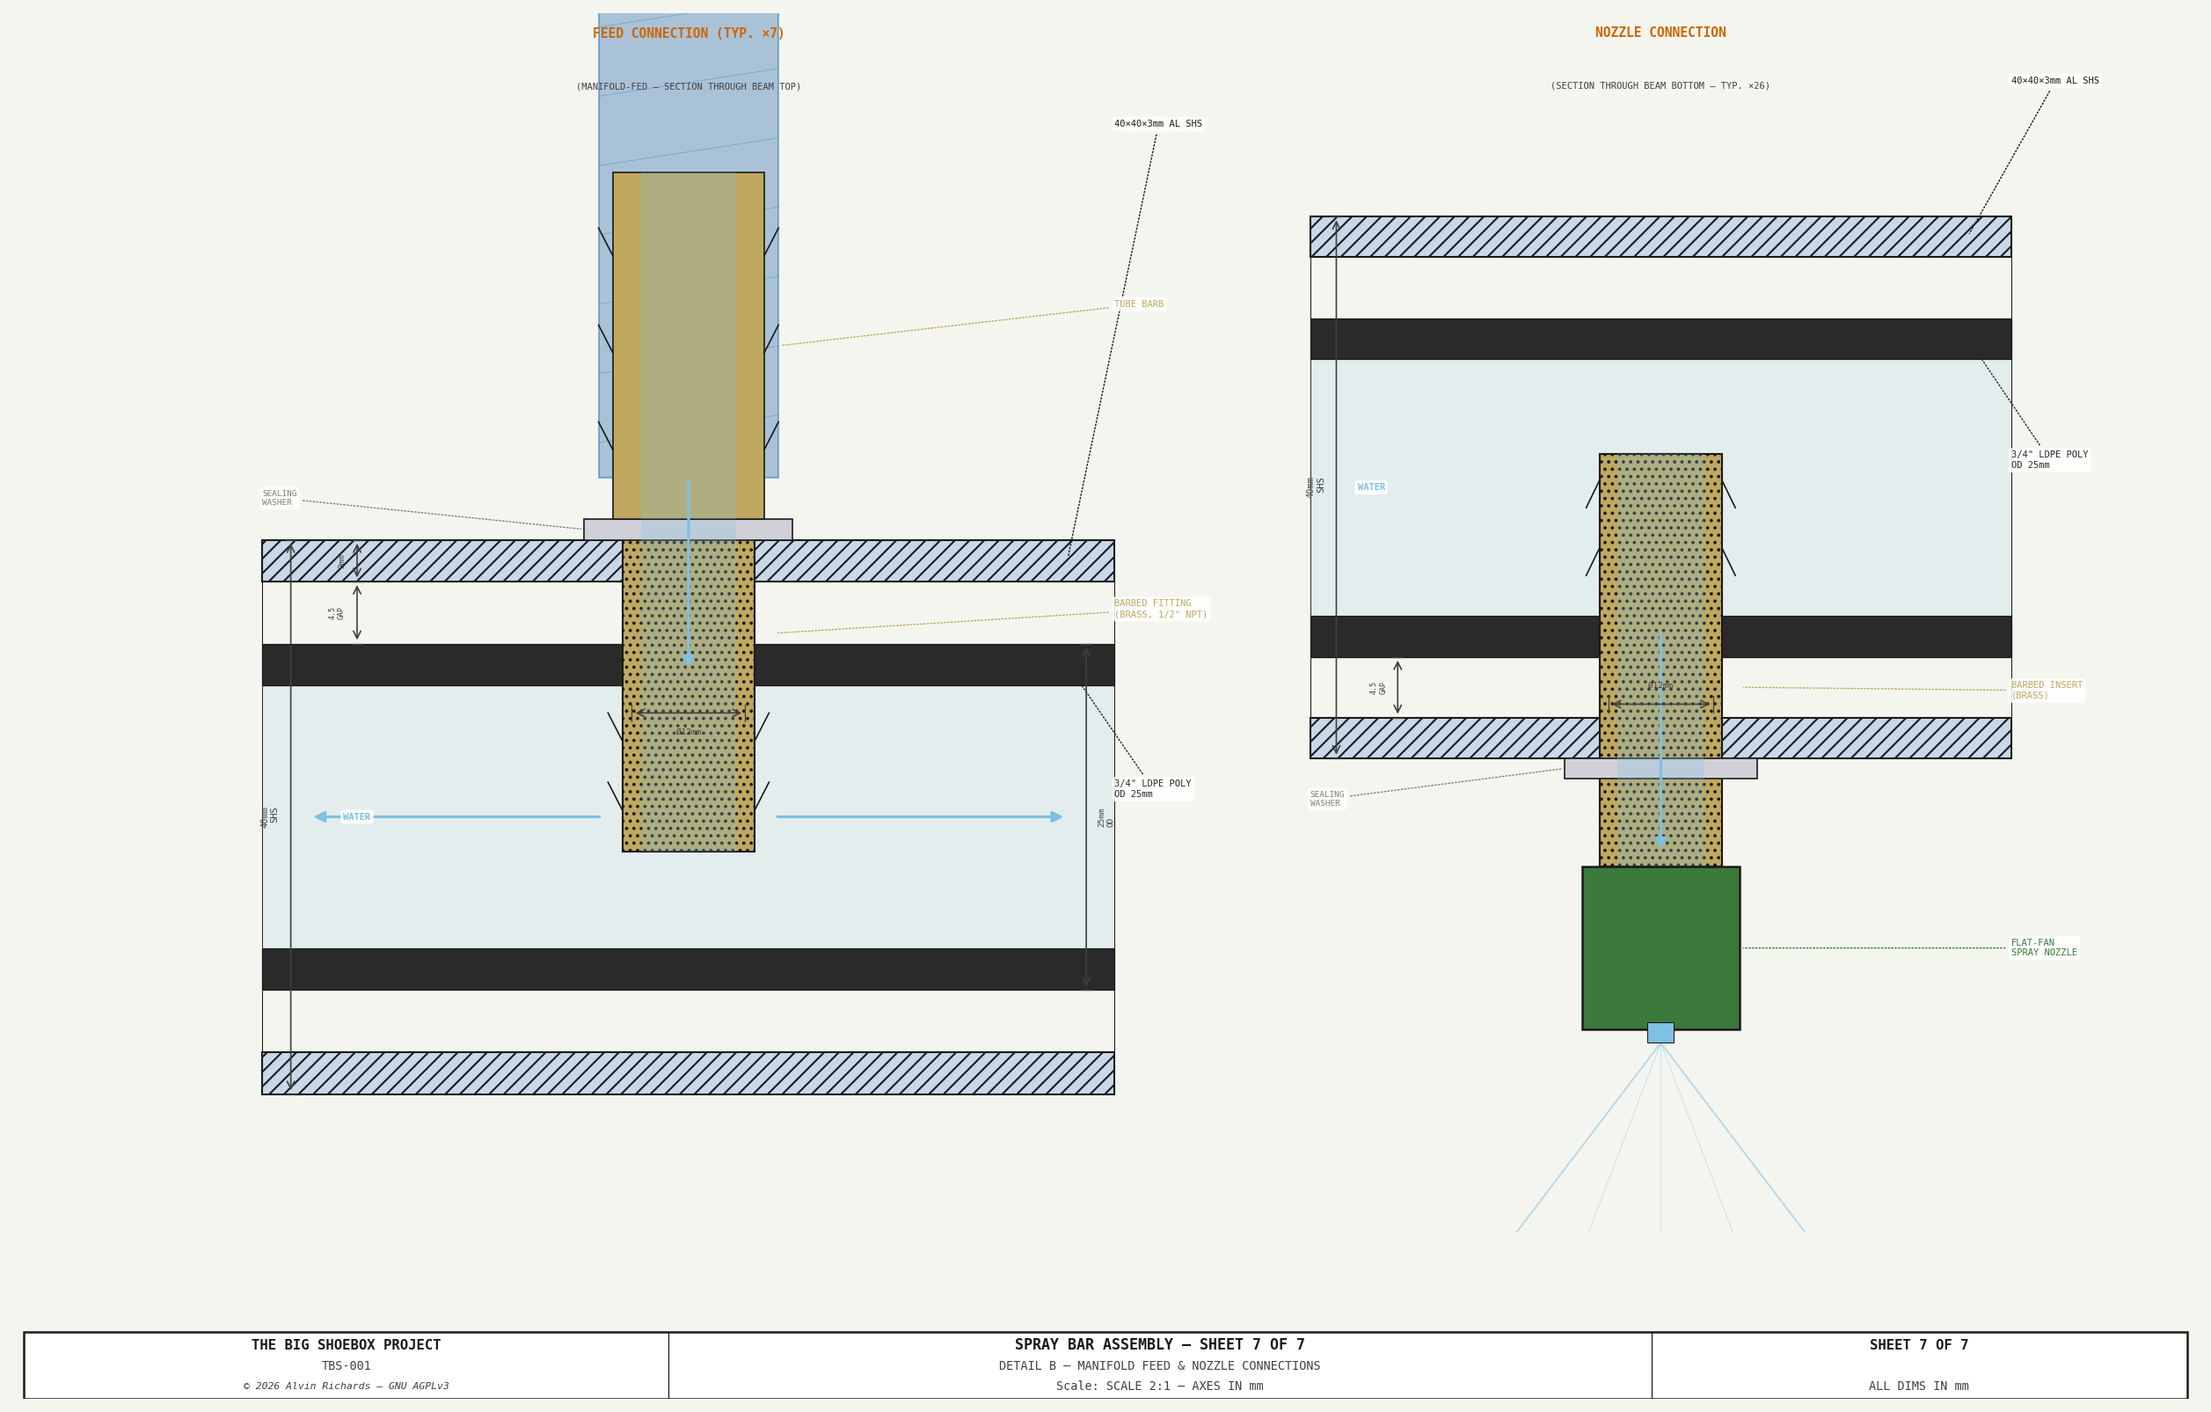
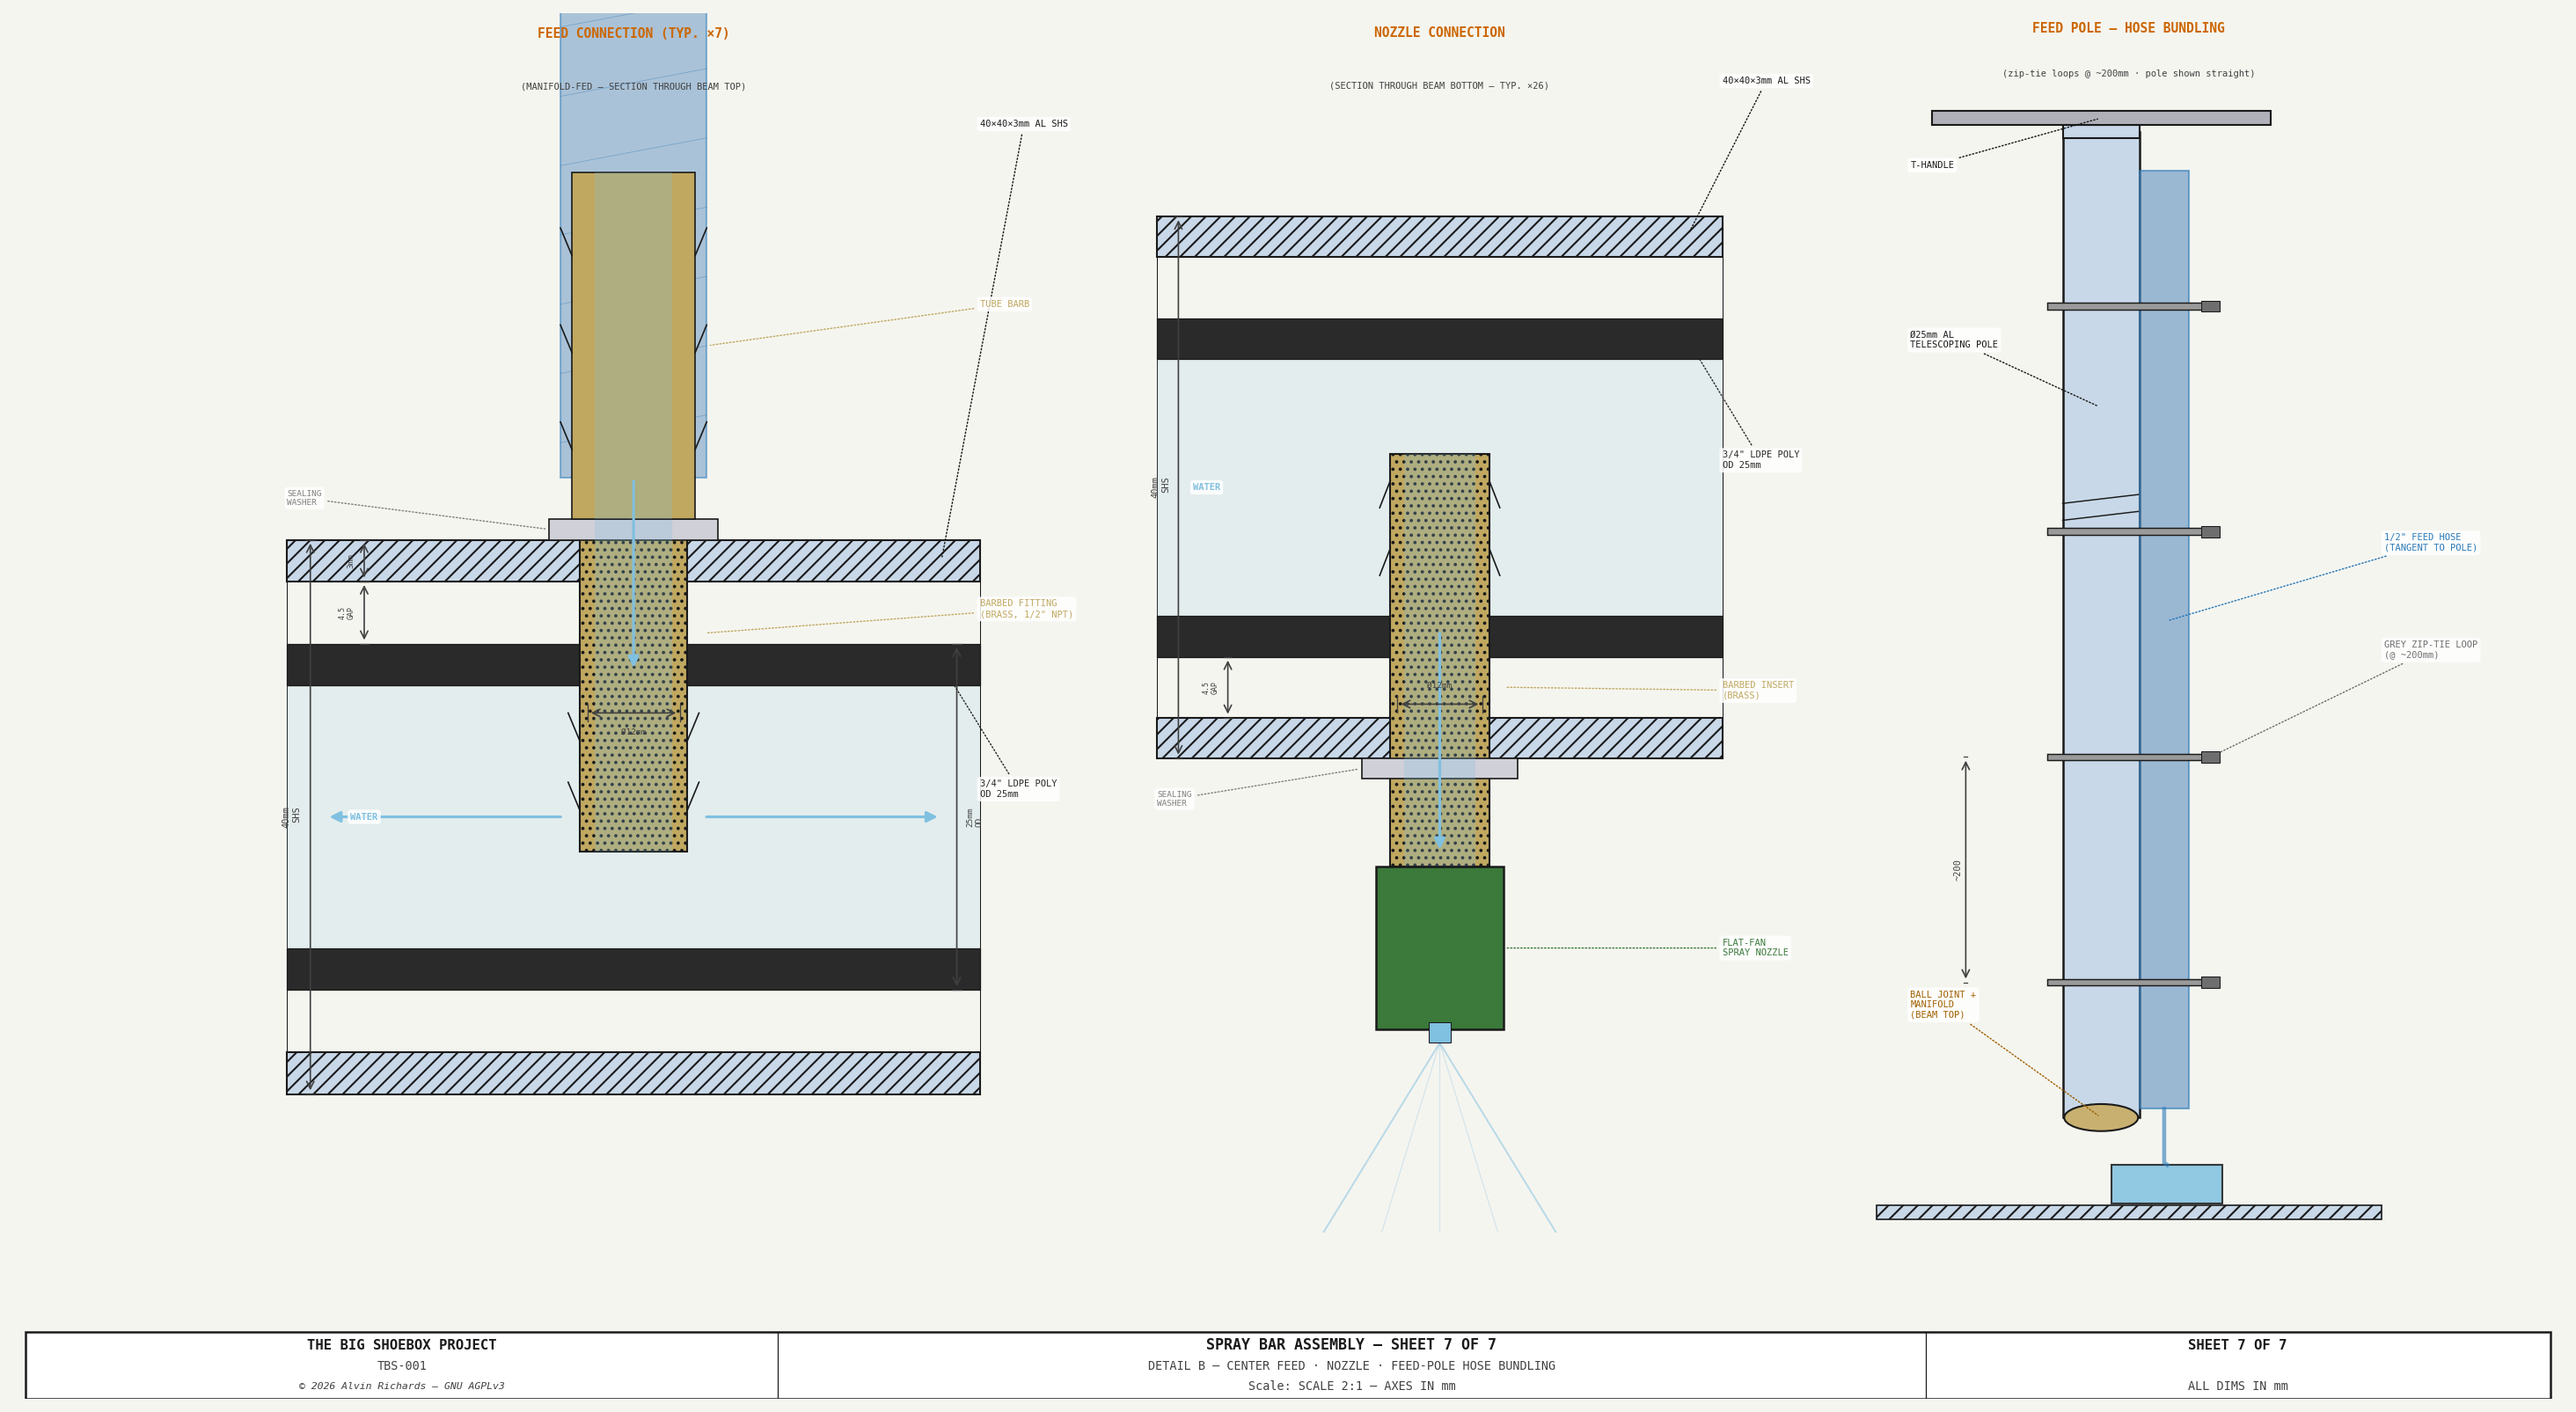
Spray bar Sheet 7: add feed-pole hose-bundling panel (zip-tie loops)
The 3D model bundles the 1/2in feed hose to the Ø25 telescoping push pole
with grey zip-tie loops at ~200mm intervals; the 2D only said '(zip-tied)'.
Added a third panel to Sheet 7 (the center-feed sheet) showing the pole +
tangent hose + zip-tie loops + T-handle + ball joint/manifold, matching
the 3D model (report §3.12).

diff --git a/src/generators/generate_spray_bar_diagram.py b/src/generators/generate_spray_bar_diagram.py
@@ -1617,13 +1617,14 @@ def draw_sheet6():
 def draw_sheet7():
     from matplotlib.gridspec import GridSpec
 
-    fig = plt.figure(figsize=(18, 12))
+    fig = plt.figure(figsize=(21, 12))
     fig.patch.set_facecolor(C_BG)
-    gs = GridSpec(1, 2, figure=fig, width_ratios=[1.2, 1], wspace=0.12)
+    gs = GridSpec(1, 3, figure=fig, width_ratios=[1.15, 0.95, 0.8], wspace=0.16)
     ax_cf = fig.add_subplot(gs[0, 0])
     ax_nz = fig.add_subplot(gs[0, 1])
+    ax_pole = fig.add_subplot(gs[0, 2])
 
-    for ax in [ax_cf, ax_nz]:
+    for ax in [ax_cf, ax_nz, ax_pole]:
         ax.set_facecolor(C_BG)
         ax.axis("off")
 
@@ -1962,12 +1963,81 @@ def draw_sheet7():
                ha="center", va="top", fontsize=5, color=C_DIM,
                **FONT, zorder=20)
 
+    # ─────────────────────────────────────────────────────────────────────
+    # RIGHT PANEL — FEED POLE: HOSE ZIP-TIE BUNDLING (elevation)
+    # The 1/2" feed hose runs tangent down the Ø25 telescoping push pole and is
+    # bound to it by grey zip-tie loops at ~200mm intervals (matches the 3D
+    # model / report §3.12). Pole shown straight; it articulates at the ball
+    # joint on the beam top.
+    # ─────────────────────────────────────────────────────────────────────
+    p_xl, p_xr = -78, 96
+    ax_pole.set_xlim(p_xl, p_xr)
+    ax_pole.set_ylim(-72, 1010)
+
+    POLE_OD = 25
+    HOSE_OD2 = 16
+    pole_z0, pole_z1 = 30, 905              # pole bottom (ball joint) → handle base
+    hose_x = POLE_OD / 2 + HOSE_OD2 / 2      # 20.5 — hose centre, tangent to the pole
+    hose_l = hose_x - HOSE_OD2 / 2           # 12.5 — hose left edge
+    hose_r = hose_x + HOSE_OD2 / 2           # 28.5 — hose right edge
+    zt_zs = [150, 350, 550, 750]             # zip-tie loops @ ~200mm
+
+    # beam-top reference strip + manifold + ball joint at the base
+    ax_pole.add_patch(Rectangle((p_xl + 5, -60), p_xr - p_xl - 10, 12,
+                      fc=C_ALUM_FILL, ec=C_FRAME, lw=0.8, hatch="///", zorder=2))
+    ax_pole.add_patch(Rectangle((hose_x - 17, -46), 36, 34,
+                      fc=C_WATER, ec=C_FRAME, lw=1.0, alpha=0.85, zorder=4))   # manifold
+    ax_pole.plot([hose_x, hose_x, hose_x + 1], [pole_z0 + 8, -10, -12],
+                 color=C_BLUE, lw=2.2, alpha=0.6, zorder=5)                    # flex into manifold
+    ax_pole.add_patch(Circle((0, pole_z0), 12, fc="#C8B070", ec=C_FRAME, lw=1.0, zorder=6))  # ball joint
+
+    # telescoping pole (Ø25 Al) + tangent feed hose
+    ax_pole.add_patch(Rectangle((-POLE_OD / 2, pole_z0), POLE_OD, pole_z1 - pole_z0,
+                      fc=C_ALUM_FILL, ec=C_FRAME, lw=1.2, zorder=4))
+    for zz in (560, 575):                                                      # telescope break
+        ax_pole.plot([-POLE_OD / 2, POLE_OD / 2], [zz, zz + 8], color=C_FRAME, lw=0.7, zorder=4.6)
+    ax_pole.add_patch(Rectangle((hose_l, pole_z0 + 8), HOSE_OD2, (pole_z1 - 35) - (pole_z0 + 8),
+                      fc=C_HOSE, ec=C_BLUE, lw=1.0, alpha=0.6, zorder=5))
+
+    # grey zip-tie loops binding pole + hose
+    for zt in zt_zs:
+        ax_pole.add_patch(Rectangle((-POLE_OD / 2 - 5, zt - 3),
+                          (hose_r + 5) - (-POLE_OD / 2 - 5), 6,
+                          fc="#9A9A9A", ec=C_FRAME, lw=0.7, zorder=7))
+        ax_pole.add_patch(Rectangle((hose_r + 4, zt - 5), 6, 10,
+                          fc="#6E6E6E", ec=C_FRAME, lw=0.5, zorder=7.5))        # tie head
+
+    # T-handle at the operator end
+    ax_pole.add_patch(Rectangle((-POLE_OD / 2, pole_z1 - 6), POLE_OD, 12,
+                      fc=C_ALUM_FILL, ec=C_FRAME, lw=1.0, zorder=5))
+    ax_pole.add_patch(Rectangle((-55, pole_z1 + 6), 110, 12,
+                      fc="#B0B0B8", ec=C_FRAME, lw=1.0, zorder=5))
+
+    # labels + spacing dim
+    leader(ax_pole, 0, 660, p_xl + 16, 720,
+           f"Ø{POLE_OD}mm AL\nTELESCOPING POLE", fs=5, color=C_FRAME, font=FONT, zorder=20, bbox=_bbox)
+    leader(ax_pole, hose_x, 470, p_xr - 4, 540,
+           "1/2\" FEED HOSE\n(TANGENT TO POLE)", fs=5, color=C_BLUE, font=FONT, zorder=20, bbox=_bbox)
+    leader(ax_pole, hose_r + 7, zt_zs[1], p_xr - 4, zt_zs[1] + 95,
+           "GREY ZIP-TIE LOOP\n(@ ~200mm)", fs=5, color="#707070", font=FONT, zorder=20, bbox=_bbox)
+    leader(ax_pole, 0, pole_z1 + 12, p_xl + 16, pole_z1 - 30,
+           "T-HANDLE", fs=5, color=C_FRAME, font=FONT, zorder=20, bbox=_bbox)
+    leader(ax_pole, 0, pole_z0, p_xl + 16, 130,
+           "BALL JOINT +\nMANIFOLD\n(BEAM TOP)", fs=5, color="#A06000", font=FONT, zorder=20, bbox=_bbox)
+    draw_dim_v(ax_pole, p_xl + 34, zt_zs[0], zt_zs[1], "~200", offset=2, fs=5, font=FONT)
+
+    ax_pole.text((p_xl + p_xr) / 2, 1002, "FEED POLE — HOSE BUNDLING",
+                 ha="center", va="top", fontsize=7, color="#CC6600",
+                 fontweight="bold", **FONT, zorder=20)
+    ax_pole.text((p_xl + p_xr) / 2, 960, "(zip-tie loops @ ~200mm · pole shown straight)",
+                 ha="center", va="top", fontsize=5, color=C_DIM, **FONT, zorder=20)
+
     # ── Title block ──────────────────────────────────────────────────────
     ax_tb = fig.add_axes([0.04, 0.005, 0.92, 0.06])
     ax_tb.set_xlim(0, 1); ax_tb.set_ylim(0, 1); ax_tb.axis("off")
     title_block(ax_tb, f"SHEET 7 OF {TOTAL_SHEETS}",
                 drawing_title="SPRAY BAR ASSEMBLY",
-                subtitle="DETAIL B — MANIFOLD FEED & NOZZLE CONNECTIONS",
+                subtitle="DETAIL B — CENTER FEED · NOZZLE · FEED-POLE HOSE BUNDLING",
                 scale_note="SCALE 2:1 — AXES IN mm",
                 height=0.7)
 
